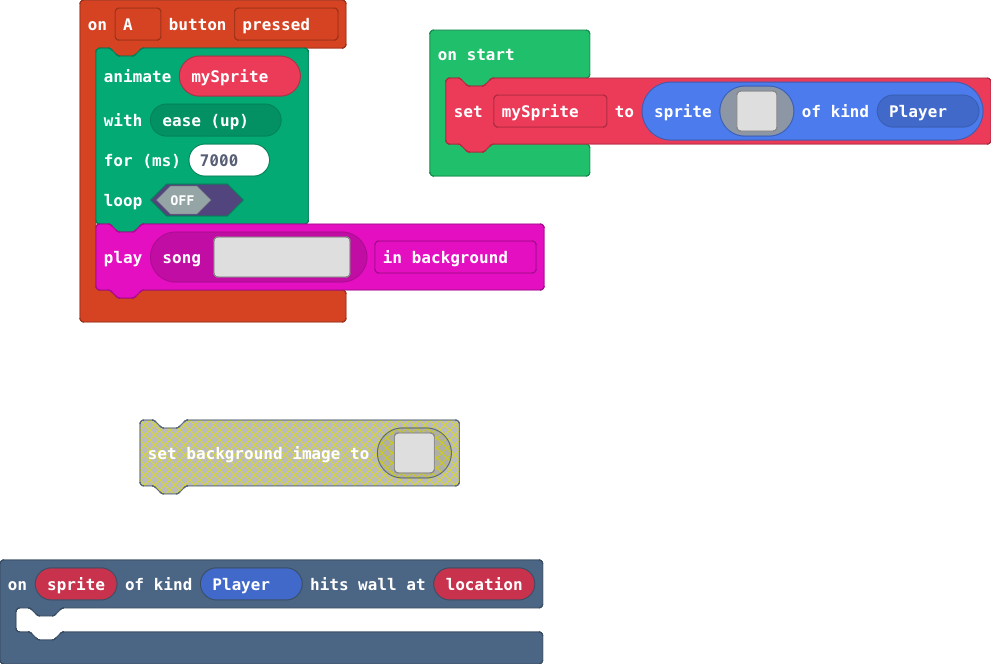
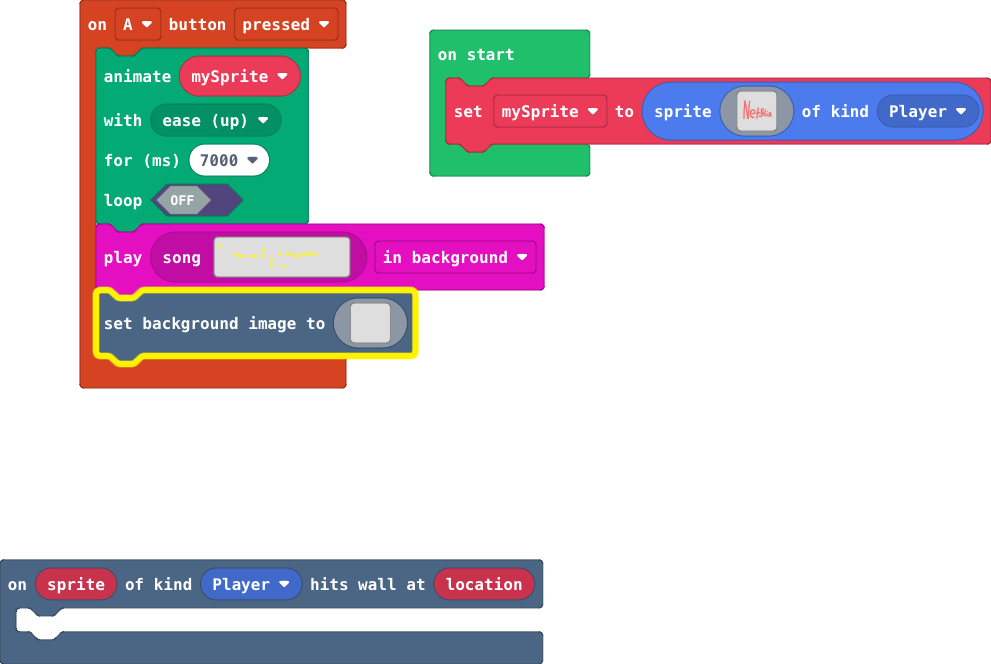
Update main.blocks, main.ts

Changed region(s): [[0.0605, 0.4217, 0.4238, 0.6024], [0.1211, 0.6325, 0.4844, 0.753], [0.7265, 0.1506, 0.7871, 0.1807]]

diff --git a/main.ts b/main.ts
@@ -9,6 +9,128 @@ controller.A.onEvent(ControllerButtonEvent.Pressed, function () {
     false
     )
[1 lines of base64/hex data omitted]
+    scene.setBackgroundImage(img`
+        ................................................................................................................................................................
+        ................................................................................................................................................................
+        ................................................................................................................................................................
+        ................................................................................................................................................................
+        ................................................................................................................................................................
+        ................................................................................................................................................................
+        ................................................................................................................................................................
+        ................................................................................................................................................................
+        ................................................................................................................................................................
+        ................................................................................................................................................................
+        ................................................................................................................................................................
+        ................................................................................................................................................................
+        ................................................................................................................................................................
+        ................................................................................................................................................................
+        ................................................................................................................................................................
+        ................................................................................................................................................................
+        ................................................................................................................................................................
+        ................................................................................................................................................................
+        ................................................................................................................................................................
+        ................................................................................................................................................................
+        ................................................................................................................................................................
+        ................................................................................................................................................................
+        ................................................................................................................................................................
+        ................................................................................................................................................................
+        ................................................................................................................................................................
+        ................................................................................................................................................................
+        ................................................................................................................................................................
+        ................................................................................................................................................................
+        ................................................................................................................................................................
+        ................................................................................................................................................................
+        ................................................................................................................................................................
+        ................................................................................................................................................................
+        ................................................................................................................................................................
+        ................................................................................................................................................................
+        ................................................................................................................................................................
+        ................................................................................................................................................................
+        ................................................................................................................................................................
+        ................................................................................................................................................................
+        ................................................................................................................................................................
+        ................................................................................................................................................................
+        ................................................................................................................................................................
+        ................................................................................................................................................................
+        ................................................................................................................................................................
+        ................................................................................................................................................................
+        ................................................................................................................................................................
+        ................................................................................................................................................................
+        ................................................................................................................................................................
+        ................................................................................................................................................................
+        ................................................................................................................................................................
+        ................................................................................................................................................................
+        ................................................................................................................................................................
+        ................................................................................................................................................................
+        ................................................................................................................................................................
+        ................................................................................................................................................................
+        ................................................................................................................................................................
+        ................................................................................................................................................................
+        ................................................................................................................................................................
+        ................................................................................................................................................................
+        ................................................................................................................................................................
+        ................................................................................................................................................................
+        ................................................................................................................................................................
+        ................................................................................................................................................................
+        ................................................................................................................................................................
+        ................................................................................................................................................................
+        ................................................................................................................................................................
+        ................................................................................................................................................................
+        ................................................................................................................................................................
+        ................................................................................................................................................................
+        ................................................................................................................................................................
+        ................................................................................................................................................................
+        ................................................................................................................................................................
+        ................................................................................................................................................................
+        ................................................................................................................................................................
+        ................................................................................................................................................................
+        ................................................................................................................................................................
+        ................................................................................................................................................................
+        ................................................................................................................................................................
+        ................................................................................................................................................................
+        ................................................................................................................................................................
+        ................................................................................................................................................................
+        ................................................................................................................................................................
+        ................................................................................................................................................................
+        ................................................................................................................................................................
+        ................................................................................................................................................................
+        ................................................................................................................................................................
+        ................................................................................................................................................................
+        ................................................................................................................................................................
+        ................................................................................................................................................................
+        ................................................................................................................................................................
+        ................................................................................................................................................................
+        ................................................................................................................................................................
+        ................................................................................................................................................................
+        ................................................................................................................................................................
+        ................................................................................................................................................................
+        ................................................................................................................................................................
+        ................................................................................................................................................................
+        ................................................................................................................................................................
+        ................................................................................................................................................................
+        ................................................................................................................................................................
+        ................................................................................................................................................................
+        ................................................................................................................................................................
+        ................................................................................................................................................................
+        ................................................................................................................................................................
+        ................................................................................................................................................................
+        ................................................................................................................................................................
+        ................................................................................................................................................................
+        ................................................................................................................................................................
+        ................................................................................................................................................................
+        ................................................................................................................................................................
+        ................................................................................................................................................................
+        ................................................................................................................................................................
+        ................................................................................................................................................................
+        ................................................................................................................................................................
+        ................................................................................................................................................................
+        ................................................................................................................................................................
+        ................................................................................................................................................................
+        ................................................................................................................................................................
+        ................................................................................................................................................................
+        ................................................................................................................................................................
+        ................................................................................................................................................................
+        `)
 })
 let mySprite: Sprite = null
 mySprite = sprites.create(img`
